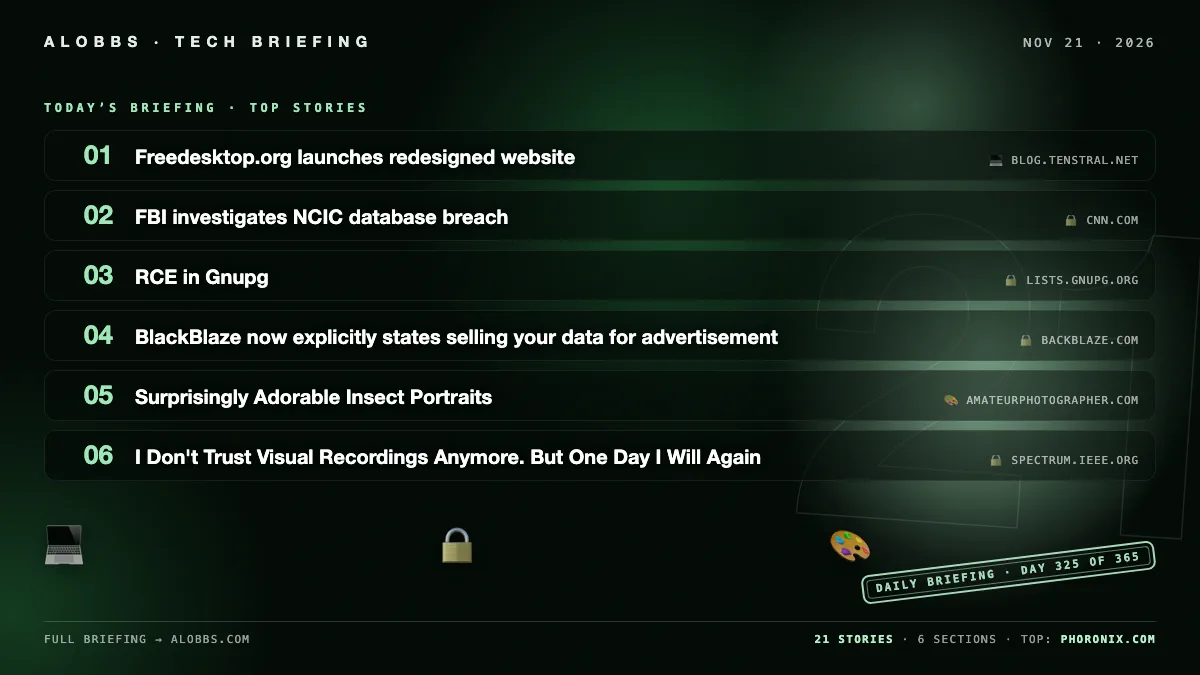
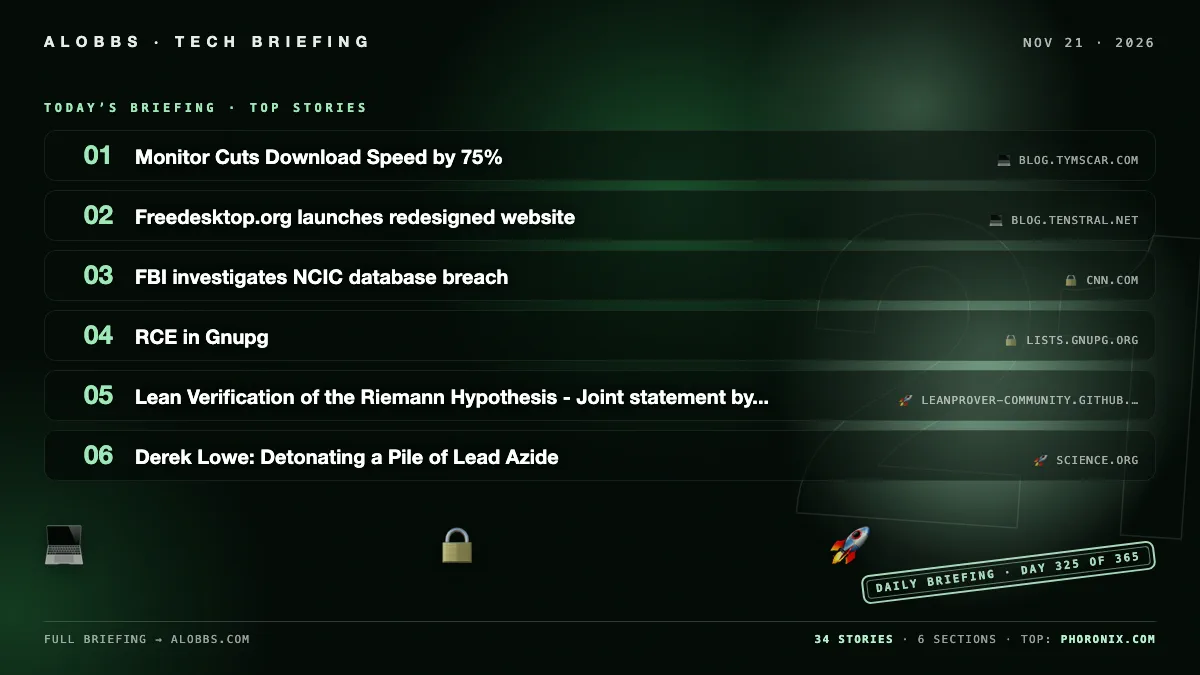
2026-11-21 briefing — 13 new (34 total)

diff --git a/content/post/2026-11-21.md b/content/post/2026-11-21.md
@@ -1,6 +1,6 @@
 ---
 title: "2026-11-21 Briefing"
-date: 2026-11-21 11:50:47.175048
+date: 2026-11-21 15:36:51.797426
 draft: false
 categories: [ "Briefing" ]
 params:
@@ -8,17 +8,17 @@ params:
 cover: "/images/briefings/2026-11-21.webp"
 ---
 
-NASA’s Mars rover and orbiter hit technical glitches; new U.S. export controls are affecting broader chips, including consumer SoCs, and TSMC suspended some shipments; the FBI is investigating an apparent NCIC database breach; a critical GPGME flaw (CVE-2026-129975) can enable data exfiltration and possible RCE, fixed in 2.3.1; and SoftBank says Masayoshi Son’s $1T SK Hynix buyout is no longer under active consideration.
+Microsoft published a post-incident report reviewing the cause, impact, and remediation of a Microsoft 365 outage, while NASA’s Mars rover and orbiter suffered technical glitches. AWS also had an outage that drew little public attention. The ISO C++ committee recompleted C++26 after a failed DIS ballot, addressed contracts comments, and planned a second approval vote; it also adopted features for C++29.
 
 <!--more-->
 
 ## 🤖 AI & Machine Learning
 
-### ChatGPT shrunk down to run on a Super Nintendo
+### I am once more calling on Firefox to stop shipping AI slop
 
-A version of ChatGPT has been shrunk down to run on a Super Nintendo console. The downsized model is not expected to give complex, coherent, or always correct answers.
+The author criticizes Firefox for continuing to add unwanted “AI slop” interface elements, specifically a glowing URL-bar progress bar designed to demand attention. They say the feature appears tied to the “Nova” UI they had already disabled via feature flag, and they condemn the design as poor taste and attention-seeking rather than user-focused.
 
-- [ChatGPT shrunk down to run on a Super Nintendo](https://www.theregister.com/offbeat/2026/11/21/chatgpt-shrunk-down-to-run-on-a-super-nintendo/5311418) — *theregister.com*
+- [I am once more calling on Firefox to stop shipping AI slop]()
 
 ### Q&A: DeepMind philosopher Henry Shevlin on machine consciousness, human-AI ties, AGI readiness
 
@@ -37,6 +37,18 @@ NYU’s Tristan Buckmaster and Anthropic’s Levent Alpöge have published an AI
 Ubisoft has launched Motherbrain, a subsidiary focused on developing proprietary generative AI technology for gameplay. The studio is currently working on “smart NPCs with memory and AI game masters that manage large-scale systemic worlds.” Motherbrain aims to serve creators within Ubisoft and beyond and form partnerships with selected technology partners.
 
 - [Ubisoft launches Motherbrain subsidiary for smart NPCs and AI game masters](https://www.gamesindustry.biz/ubisoft-launches-motherbrain-a-new-subsidiary-focused-on-ai-driven-gameplay-innovation) — *gamesindustry.biz*
+
+### Astra 6.2 and Sol 6.2 flop at Simple Bench
+
+SimpleBench is a new multiple-choice LLM benchmark of over 200 questions covering spatio-temporal reasoning, social intelligence, and trick questions. A non-specialized human baseline scored 83.7%, outperforming every tested LLM, including top model Claude Fable at 81.9%, while Astra 6.2 and Sol 6.2 flopped. The results suggest frontier LLMs’ memorized knowledge and approximate reasoning are not always enough for basic questions.
+
+- [Astra 6.2 and Sol 6.2 flop at Simple Bench](https://simple-bench.com/) — *simple-bench.com*
+
+### Anyone can easily use private, open weight models
+
+The article explains how users can access private, open-weight LLMs without relying on OpenAI or Anthropic or needing expensive hardware or expertise. It highlights Maple AI as a user-friendly provider that runs open-weight models in trusted execution environments so it cannot spy on conversations, and notes it offers free and $20/month Pro plans plus API access. It also mentions other open-source tools and providers and a DeepSeek variant intended for security research.
+
+- [Anyone can easily use private, open weight models](https://micahflee.com/heres-how-anyone-can-easily-use-private-open-weight-models/) — *micahflee.com*
 
 ### ClawDOS – An AI coding agent for DOS
 
@@ -71,13 +83,69 @@ Backblaze’s updated privacy notice, effective December 1, 2026, explicitly sta
 
 - [BlackBlaze now explicitly states selling your data for advertisement](https://www.backblaze.com/company/policy/privacy) — *backblaze.com*
 
-### I Don't Trust Visual Recordings Anymore. But One Day I Will Again
+## 🚀 Space & Science
 
-In March, an Iranian news agency aired a week-old video appearing to show a U.S.-made Tomahawk missile hitting a school, with reports claiming more than 175 deaths, mostly children, while the U.S. president and military denied responsibility. Digital forensics expert Hany Farid initially doubted the video’s authenticity due to its low quality, delayed release, and source, but analysis of the missile’s trajectory, size, and impact timing found it plausible. The article argues that in the generative-AI era, society should shift from presuming visual recordings are authentic to presuming they are fake until creators prove otherwise.
+### NASA Mars rover and orbiter suffer glitches
 
-- [I Don't Trust Visual Recordings Anymore. But One Day I Will Again](https://spectrum.ieee.org/fighting-back-against-deep-fakes) — *spectrum.ieee.org*
+NASA's Mars rover and orbiter have suffered technical glitches. The report notes that these problems come as systems on Earth also face technical issues, but it provides no further details on the Mars hardware failures.
 
-## 💻 Developer & Open Source
+- [NASA Mars rover and orbiter suffer glitches](https://www.theregister.com/science/2026/11/21/nasa-mars-rover-and-orbiter-suffer-glitches/5311360) — *theregister.com*
+
+### Lean Verification of the Riemann Hypothesis - Joint statement by...
+
+On November 20, 2026, Levent Alpöge released a 17-million-line Lean library proving the Riemann Hypothesis. The Lean and Mathlib communities certified that the formal statement is correct, the library compiles, the proved theorem matches Mathlib’s statement, and the proof was validated by multiple independent checkers. They congratulated Alpöge and anticipated further mathematical work explaining the proof’s new ideas.
+
+- [Lean Verification of the Riemann Hypothesis - Joint statement by...](https://leanprover-community.github.io/blog/posts/riemann-hypothesis/) — *leanprover-community.github.io*
+
+### Derek Lowe: Detonating a Pile of Lead Azide
+
+Derek Lowe addresses detonating a pile of lead azide, according to the article title. The provided page contains only a notice to enable JavaScript and cookies, so no further factual details are available.
+
+- [Derek Lowe: Detonating a Pile of Lead Azide](https://www.science.org/content/blog-post/detonating-huge-pile-lead-azide-really) — *science.org*
+
+### Spacecraft reaches Mercury on second-ever mission to enter its orbit
+
+The joint European-Japanese BepiColombo mission has arrived at Mercury after an eight-year, 6 billion-mile voyage and is preparing to become only the second spacecraft mission to orbit the planet. The €1.6bn mission will later split into two orbiters to study Mercury’s formation, surface composition, magnetic field, interior, and polar ice, with science operations due to begin in April.
+
+- [Spacecraft reaches Mercury on second-ever mission to enter its orbit](https://www.theguardian.com/science/2026/nov/20/spacecraft-mercury-second-ever-mission-orbit-bepicolombo) — *theguardian.com*
+
+## 💻 Software & Infrastructure
+
+### AWS got hit by an outage too. Here's why you didn't hear about it
+
+The article reports that AWS also experienced an outage that drew little public attention. It examines why this disruption went largely unnoticed compared with more widely publicized cloud failures.
+
+- [AWS got hit by an outage too. Here's why you didn't hear about it](https://www.theregister.com/columnists/2026/11/21/aws-got-hit-by-an-outage-too-heres-why-you-didnt-hear-about-it/5311511) — *theregister.com*
+
+### TODOs JJ Style
+
+The author uses Jujutsu (JJ) empty commits as a personal TODO list instead of a TODO.md file, writing descriptions for tasks before doing the work. They rebase these empty commits out of a “TODO tree” when starting a task, and because the commits are empty they move without conflicts. They also configure `git.private-commits` with a `private:` prefix so the TODO commits stay local and are not pushed.
+
+- [TODOs JJ Style](https://bwc9876.dev/blog/jj_todo/) — *bwc9876.dev*
+
+### Monitor Cuts Download Speed by 75%
+
+A user found that routing a USB-C 2.5G Ethernet adapter through a Studio Display cut download speeds from about 2.5 Gbps to around 600 Mbps, while uploads stayed near 2.4 Gbps; connecting the adapter directly to the Mac restored roughly 2.2–2.3 Gbps. Installing Realtek’s driver improved downloads to about 1.1 Gbps in one setup and roughly 2 Gbps with flow control in another, though the display path remained the main suspect and flow control introduced latency tradeoffs.
+
+- [My Monitor Was Cutting My Download Speed by 75%](https://blog.tymscar.com/posts/studiodisplayethernet/) — *blog.tymscar.com*
+
+### C++26 is done (again)! — Trip report: November 2026 ISO C++ standards meeting (Búzios, Brazil)
+
+At the November 2026 ISO C++ meeting in Búzios, Brazil, the committee recompleted technical work on C++26 after the first DIS ballot did not pass unanimously and returned international comments, mostly on contracts. It addressed those comments, including by adopting a contracts extension and providing rationale and timeline, and plans to reissue the updated C++26 document for a second approval ballot. The committee also adopted several features for draft C++29, including labeled break/continue, std::ranges::any_view, and views::slice.
+
+- [C++26 is done (again)! — Trip report: November 2026 ISO C++ standards meeting (Búzios, Brazil)](https://herbsutter.com/2026/11/21/c26-is-done-again-trip-report-november-2026-iso-c-standards-meeting-buzios-brazil/) — *herbsutter.com*
+
+### Probabilistic data structures in Go, part 2
+
+This second part examines additional probabilistic data structures in Go—binary fuse filters, UltraLogLog, log-linear histograms, and MinHash—and compares them with previously covered structures. It explains their mechanics and guarantees using the `unsure` package, focusing on the static binary fuse filter as a memory-efficient alternative to Bloom filters for approximate set membership.
+
+- [Probabilistic data structures in Go, part 2](https://antonz.org/probabilistic-data-structures-2/) — *antonz.org*
+
+### Microsoft 365 Outage - Post Incident Report
+
+Microsoft has published a post-incident report on a Microsoft 365 outage. The report reviews the incident’s cause and impact and outlines remediation steps.
+
+- [Microsoft 365 Outage - Post Incident Report](https://tianyin.github.io/misc/pir_microsoft_365_11-12-2026.pdf) — *tianyin.github.io*
 
 ### Freedesktop.org launches redesigned website
 
@@ -91,6 +159,12 @@ freedesktop.org has launched a redesigned, curated website and refreshed its wik
 The article recommends Clojure as a language worth learning next because its Lisp heritage and modern features are likely to change how programmers think. It highlights Clojure’s dynamic nature, emphasis on data structures and higher-order functions, full macro support, REPL-based development, and modern libraries including efficient persistent data structures. Citing Alan Perlis, it argues that languages which do not affect programming thinking are not worth knowing.
 
 - [Clojure will affect the way you think about programming (2017)](https://eli.thegreenplace.net/2017/clojure-the-perfect-language-to-expand-your-brain/) — *eli.thegreenplace.net*
+
+### How to generate an accessible color palette from a single color
+
+Pablo Di Filippo describes a method for generating accessible color scales from a single color by assigning each step a target contrast ratio against the background and then computing the OKLCH lightness that meets it, as used in the newly MIT-licensed TaishoDS Core. He says an earlier approach based on evenly spaced lightness failed, and testing 4,096 starting colors in light and dark mode produced 81,920 steps whose text contrast never fell below 4.63, above WCAG AA’s 4.5. The article also notes exceptions such as yellow hues and cases the method does not cover.
+
+- [How to generate an accessible color palette from a single color](https://taisho.design/en/blog/accessible-color-palette-from-one-color) — *taisho.design*
 
 ### Debian 13.8 Released With 150+ Security Updates
 
@@ -110,29 +184,13 @@ FreeBSD 15.2 Beta 3 is now available for testing with bug fixes, updated OpenZFS
 
 - [FreeBSD 15.2 Beta 3 Released Following 17 Security Advisories](https://www.phoronix.com/news/FreeBSD-15.2-Beta-3) — *phoronix.com*
 
-## 🚀 Space & Science
+## 🎬 Media & Culture
 
-### NASA Mars rover and orbiter suffer glitches
+### How to watch Italy v Fiji — Nations Championship online from anywhere
 
-NASA's Mars rover and orbiter have suffered technical glitches. The report notes that these problems come as systems on Earth also face technical issues, but it provides no further details on the Mars hardware failures.
+Italy will face Fiji in the 2026 Nations Championship on Saturday, November 21, at Bluenergy Stadium in Udine, with kickoff at 5:40 PM CET. Italian viewers can watch free on TV8, while Sky Sport, NOW and Sky Go offer paid coverage. Travelers abroad may need a VPN to access TV8’s Italy-restricted live stream.
 
-- [NASA Mars rover and orbiter suffer glitches](https://www.theregister.com/science/2026/11/21/nasa-mars-rover-and-orbiter-suffer-glitches/5311360) — *theregister.com*
-
-## 💰 Business & Chips
-
-### New US export rules hit broader chips, including consumer SoCs beyond AI
-
-New U.S. export controls introduced Thursday are affecting a broader range of semiconductors than expected, including SoCs used in consumer electronics and mobile devices, not just advanced AI chips. The rules are also hitting developers outside China, and TSMC has suspended some shipments, according to industry executives cited by Nikkei Asia.
-
-- [New US export rules hit broader chips, including consumer SoCs beyond AI](https://asia.nikkei.com/business/tech/semiconductors/chip-supply-chain-warns-of-broader-disruption-from-new-us-export-controls) — *asia.nikkei.com*
-
-### SoftBank says Masayoshi Son's $1T SK Hynix buyout no longer under active consideration
-
-SoftBank CEO Masayoshi Son recently explored a possible $1 trillion buyout of SK Hynix and approached Wall Street institutions about financing it, according to sources. SoftBank said the deal is “no longer under active consideration.”
-
-- [SoftBank says Masayoshi Son's $1T SK Hynix buyout no longer under active consideration](https://www.theinformation.com/articles/softbanks-masayoshi-son-explored-1-trillion-moonshot-buyout-sk-hynix) — *theinformation.com*
-
-## 🎨 Design & Media
+- [How to watch Italy v Fiji — Nations Championship online from anywhere](https://cybernews.com/stream-online/how-to-watch-italy-v-fiji-nations-championship/) — *cybernews.com*
 
 ### Surprisingly Adorable Insect Portraits
 
@@ -146,8 +204,28 @@ Twin films are films with the same or similar plots produced and released close 
 
 - [Twin films are films with the same or similar plots released with a short time](https://en.wikipedia.org/wiki/Twin_films) — *en.wikipedia.org*
 
-### How to generate an accessible color palette from a single color
+### I Don't Trust Visual Recordings Anymore. But One Day I Will Again
 
-Pablo Di Filippo describes a method for generating accessible color scales from a single color by assigning each step a target contrast ratio against the background and then computing the OKLCH lightness that meets it, as used in the newly MIT-licensed TaishoDS Core. He says an earlier approach based on evenly spaced lightness failed, and testing 4,096 starting colors in light and dark mode produced 81,920 steps whose text contrast never fell below 4.63, above WCAG AA’s 4.5. The article also notes exceptions such as yellow hues and cases the method does not cover.
+In March, an Iranian news agency aired a week-old video appearing to show a U.S.-made Tomahawk missile hitting a school, with reports claiming more than 175 deaths, mostly children, while the U.S. president and military denied responsibility. Digital forensics expert Hany Farid initially doubted the video’s authenticity due to its low quality, delayed release, and source, but analysis of the missile’s trajectory, size, and impact timing found it plausible. The article argues that in the generative-AI era, society should shift from presuming visual recordings are authentic to presuming they are fake until creators prove otherwise.
 
-- [How to generate an accessible color palette from a single color](https://taisho.design/en/blog/accessible-color-palette-from-one-color) — *taisho.design*
+- [I Don't Trust Visual Recordings Anymore. But One Day I Will Again](https://spectrum.ieee.org/fighting-back-against-deep-fakes) — *spectrum.ieee.org*
+
+## 🏢 Business & Policy
+
+### New US export rules hit broader chips, including consumer SoCs beyond AI
+
+New U.S. export controls introduced Thursday are affecting a broader range of semiconductors than expected, including SoCs used in consumer electronics and mobile devices, not just advanced AI chips. The rules are also hitting developers outside China, and TSMC has suspended some shipments, according to industry executives cited by Nikkei Asia.
+
+- [New US export rules hit broader chips, including consumer SoCs beyond AI](https://asia.nikkei.com/business/tech/semiconductors/chip-supply-chain-warns-of-broader-disruption-from-new-us-export-controls) — *asia.nikkei.com*
+
+### SoftBank says Masayoshi Son's $1T SK Hynix buyout no longer under active consideration
+
+SoftBank CEO Masayoshi Son recently explored a possible $1 trillion buyout of SK Hynix and approached Wall Street institutions about financing it, according to sources. SoftBank said the deal is “no longer under active consideration.”
+
+- [SoftBank says Masayoshi Son's $1T SK Hynix buyout no longer under active consideration](https://www.theinformation.com/articles/softbanks-masayoshi-son-explored-1-trillion-moonshot-buyout-sk-hynix) — *theinformation.com*
+
+### Adult-only households accounted for 55% of toy sales in the first half of 2026
+
+Adult-only households accounted for 55% of toy sales in the first half of 2026, with companies increasingly stocking Lego sets and plushies marketed to adults. Retailers are prominently featuring adult-oriented toys, potentially driving the U.S. toy industry’s strongest growth year. Consumers like 33-year-old Rachel Ellicott are buying whimsical plush items for themselves.
+
+- [Adult-only households accounted for 55% of toy sales in the first half of 2026](https://www.bloomberg.com/news/articles/2026-11-18/jellycats-squishmallows-and-lego-sets-for-adults-drive-holiday-traffic) — *bloomberg.com*
